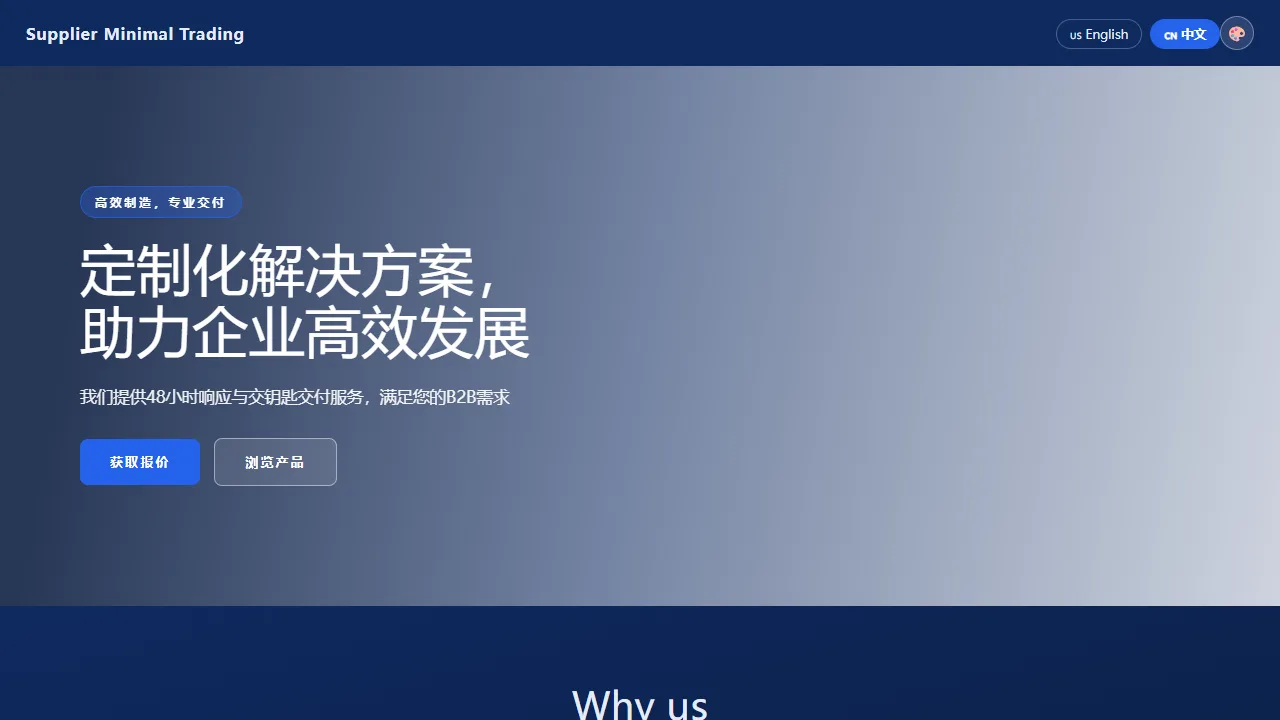
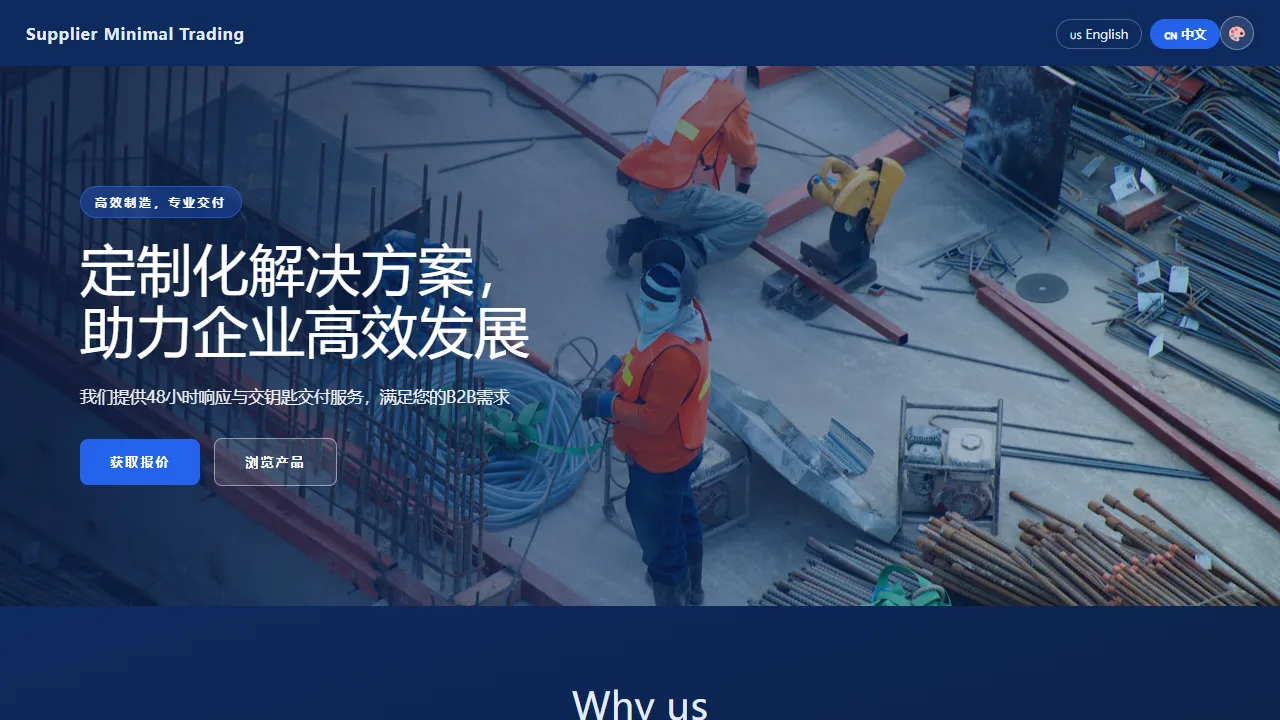
STOCK-IMAGES: replace watermarked cogview hero/scene images on all 7 demo sites (6 marketplace templates + robot flagship) with verified high-res Unsplash photography (LUMINA skill's own library strategy — 20 verified URLs, industry-matched: engineer/containers/excavator/coffee/headphones/interior/r

diff --git a/scripts/upgrade_stock_images.py b/scripts/upgrade_stock_images.py
@@ -1,0 +1,59 @@
+"""模板商城背景图升级:6 模板站 + 机器人站,hero/applications/cases 换 Unsplash 高清真实图库(已验证 200)。
+诚实标注 VERIFIED_STOCK;产品特写图保留 AI 生成(主体是产品本身)。幂等。"""
+from app.database import SessionLocal
+from app import models
+
+U = "https://images.unsplash.com/{id}?q=80&w=1920&auto=format&fit=crop"
+
+PLAN = {
+    # slug: (hero, applications, cases)
+    "s-1-b9528a": ("photo-1581091226825-a6a2a5aee158", "photo-1504328345606-18bbc8c9d7d1", "photo-1581094794329-c8112a89af12"),
+    "s-1-18b564": ("photo-1504307651254-35680f356dfd", "photo-1553413077-190dd305871c", "photo-1581092160562-40aa08e78837"),
+    "s-1-56abdf": ("photo-1541888946425-d81bb19240f5", "photo-1503387762-592deb58ef4e", "photo-1581094794329-c8112a89af12"),
+    "s-1-cca731": ("photo-1447933601403-0c6688de566e", "photo-1512621776951-a57141f2eefd", "photo-1504148455328-c376907d081c"),
+    "s-1-cd90cb": ("photo-1505740420928-5e560c06d30e", "photo-1546868871-7041f2a55e12", "photo-1523275335684-37898b6baf30"),
+    "s-1-0d9eec": ("photo-1600585154340-be6161a56a0c", "photo-1524758631624-e2822e304c36", "photo-1503387837-b154d5074bd2"),
+    "s-1-b1c8dc": ("photo-1485827404703-89b55fcc595e", "photo-1531746790731-6c087fecd65a", "photo-1531746790731-6c087fecd65a"),
+}
+TYPE_ORDER = ["hero", "applications", "cases"]
+
+db = SessionLocal()
+changed_variants = 0
+changed_assets = 0
+
+for slug, ids in PLAN.items():
+    site = db.query(models.Site).filter(models.Site.public_slug == slug).first()
+    if site is None:
+        print("MISS site", slug)
+        continue
+    urls = [U.format(id=i) for i in ids]
+    for v in db.query(models.SiteMarketVariant).filter(models.SiteMarketVariant.site_id == site.id).all():
+        import json as _json
+        # 深拷贝生成新对象再赋值,确保 SQLAlchemy JSON 列变更被追踪(原地改不落库)
+        schema = _json.loads(_json.dumps(v.layout_schema or {}, ensure_ascii=False))
+        secs = schema.get("sections", [])
+        touched = set()
+        for s in secs:
+            t = s.get("type")
+            if t in TYPE_ORDER:
+                s.setdefault("props", {})
+                s["props"]["image"] = urls[TYPE_ORDER.index(t)]
+                s["props"]["image_source"] = "VERIFIED_STOCK"
+                touched.add(s.get("id", ""))
+        v.layout_schema = schema
+        changed_variants += 1
+        # Asset 行同步(图片状态统计与溯源一致)
+        if touched:
+            rows = db.query(models.Asset).filter(models.Asset.site_id == site.id, models.Asset.section_id.in_(touched)).all()
+            for a in rows:
+                sec_type = next((s["type"] for s in secs if s.get("id") == a.section_id), None)
+                if sec_type in TYPE_ORDER:
+                    a.url = urls[TYPE_ORDER.index(sec_type)]
+                    a.source_type = "VERIFIED_STOCK"
+                    a.provider = "unsplash"
+                    a.note = "Unsplash 免费图库(学习 LUMINA 图库策略)"
+                    changed_assets += 1
+
+db.commit()
+print(f"OK variants={changed_variants} assets={changed_assets}")
+db.close()
